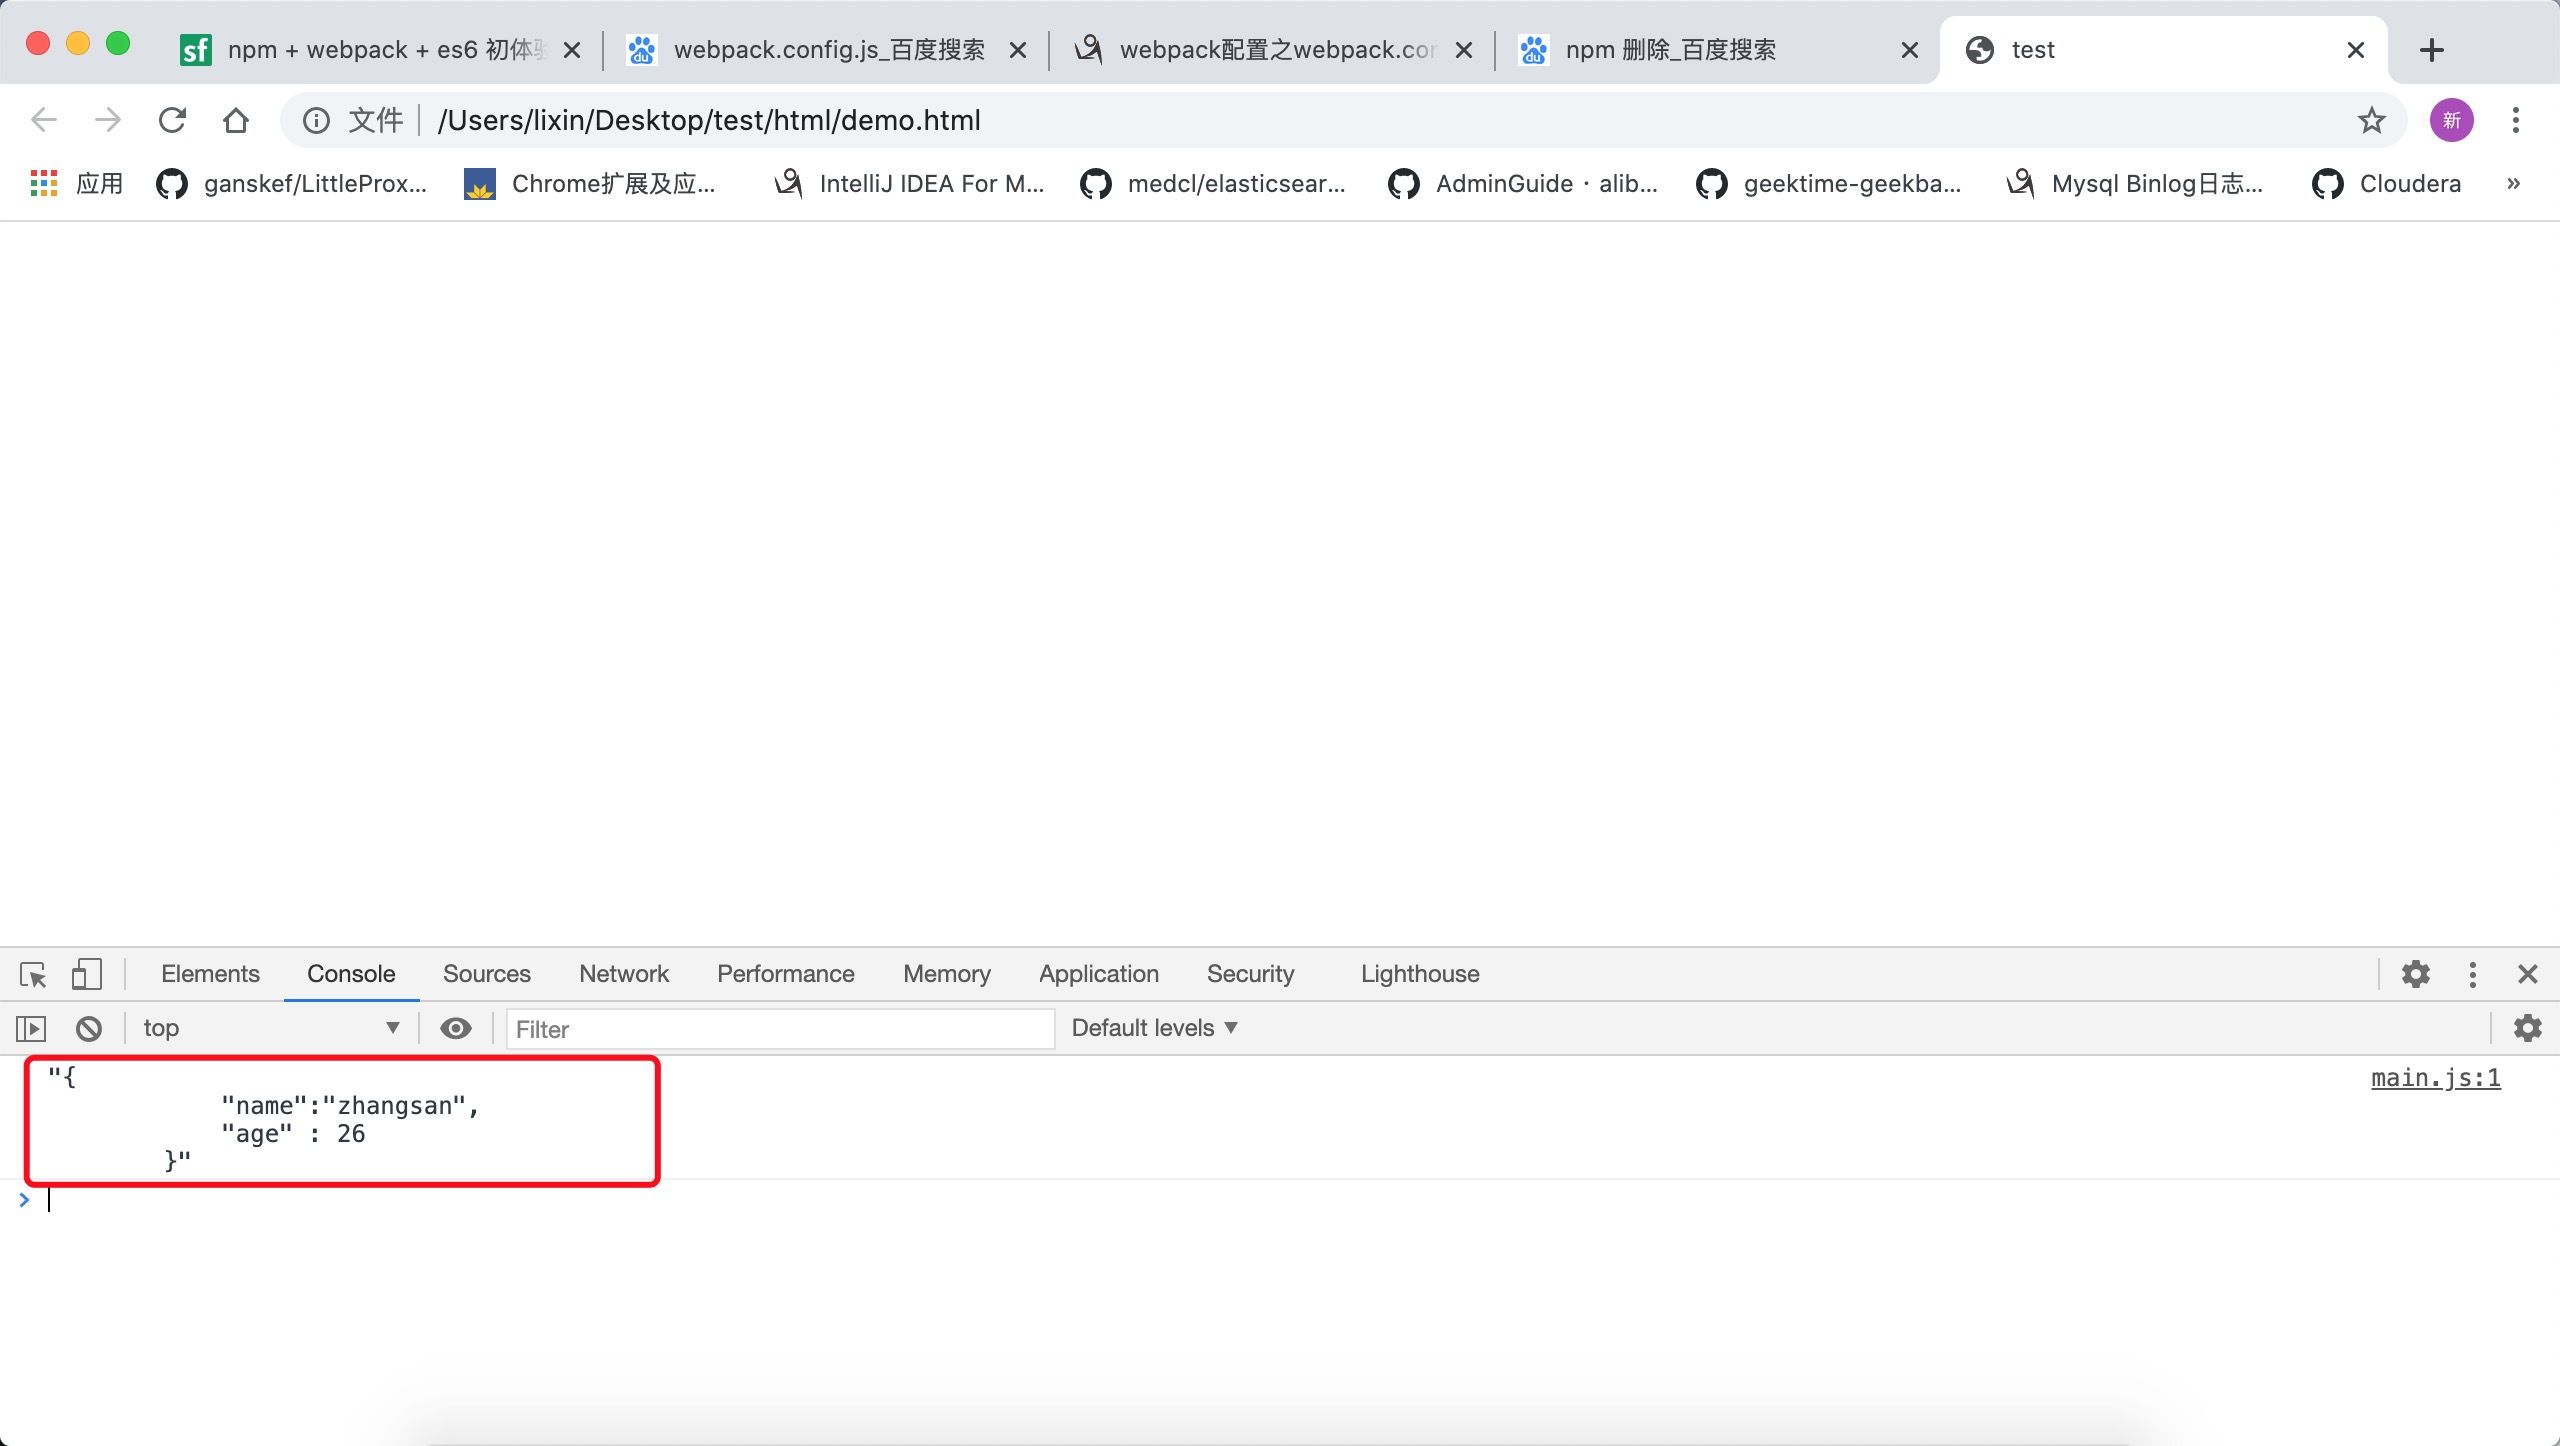
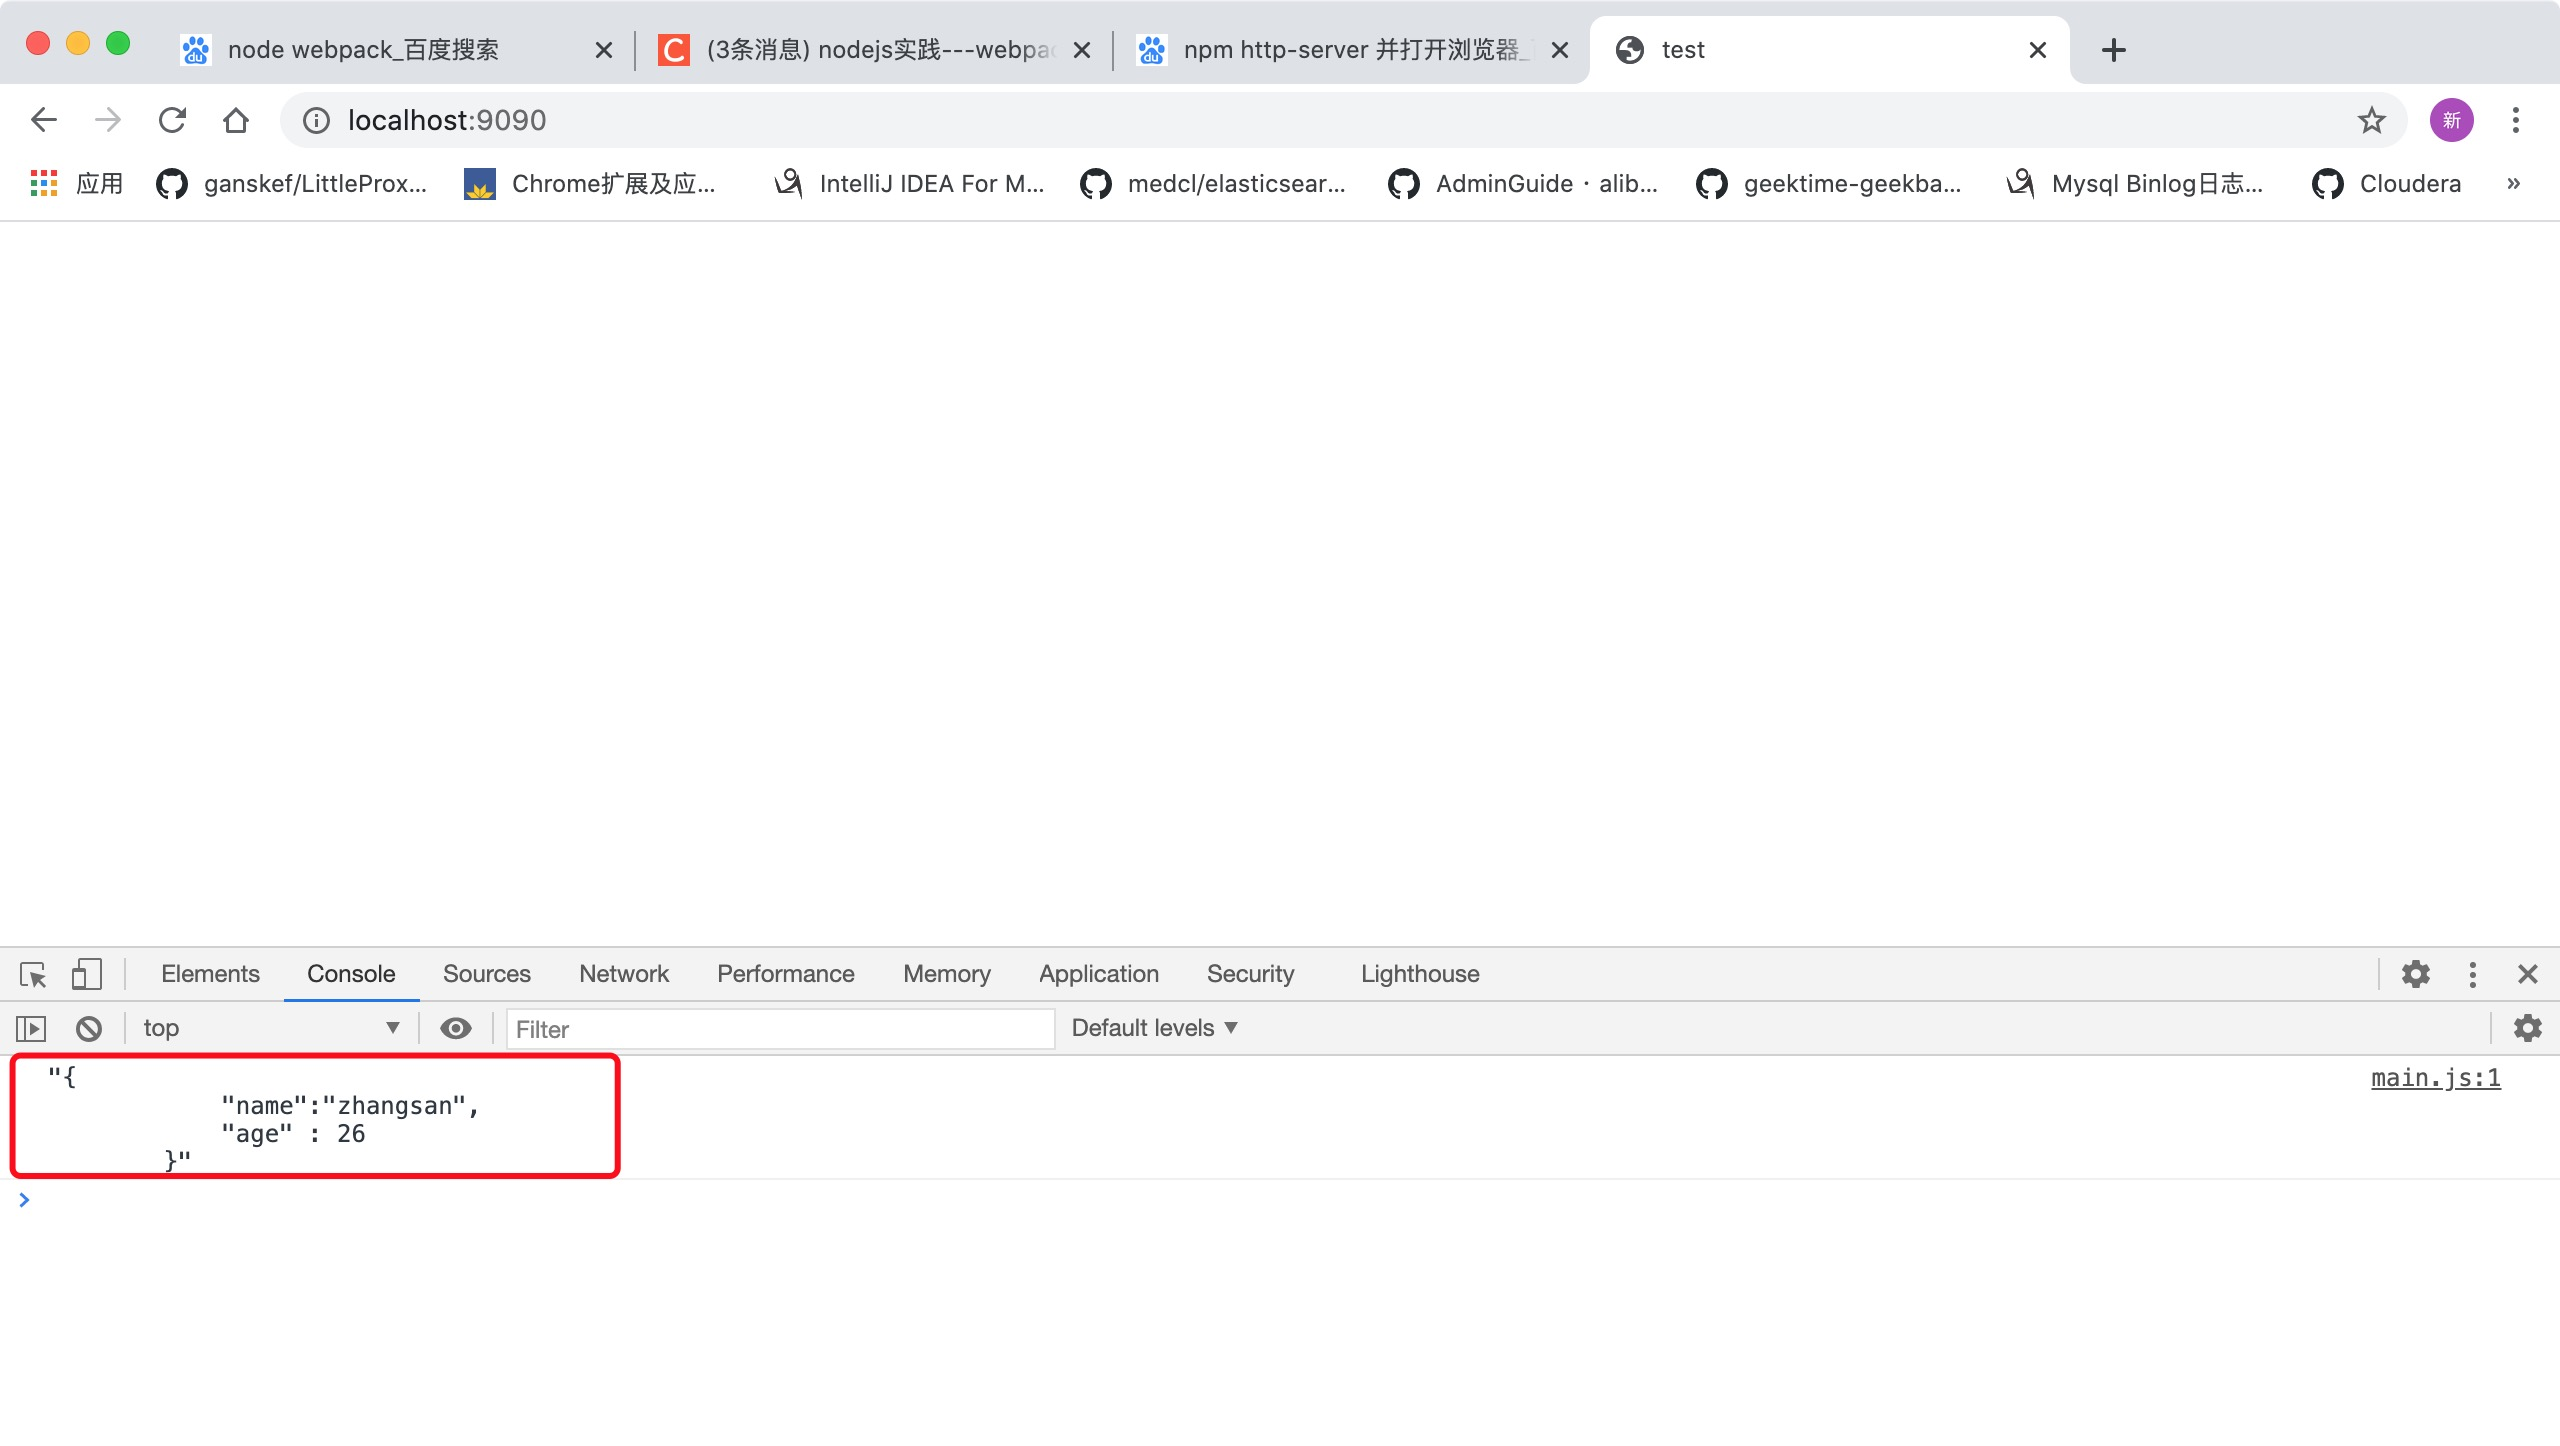
init blog

Changed region(s): [[0.0625, 0.0, 0.9375, 0.0934], [0.1562, 0.9959, 0.8438, 1.0], [0.0, 0.7158, 0.25, 0.8402]]

diff --git a/_posts/2020-04-10-EcmaScript6-WebPack.md b/_posts/2020-04-10-EcmaScript6-WebPack.md
@@ -46,25 +46,19 @@ lixin-macbook:test lixin$ npm init
 ```
 ### (4). 安装webpack和webpack-cli
 ```
-# 安装webpack和webpack-cli
+# 安装webpack和webpack-cli/http-server
 # 建议全局安装这两件插件(npm install webpack webpack-cli -g)  
 lixin-macbook:test lixin$ npm install webpack webpack-cli --save-dev
-
-# 查看项目结构
-lixin-macbook:test lixin$ tree -L 1
-.
-├── node_modules
-├── package-lock.json
-└── package.json
+lixin-macbook:test lixin$ npm install http-server --save-dev
 
 # 查看webpack版本
 lixin-macbook:test lixin$ ./node_modules/.bin/webpack -v
 webpack-cli 4.2.0
 webpack 5.11.0
 ```
-### (5). 创建项目目录(src/dist/html)
+### (5). 创建项目目录(src/dist)
 ```
-lixin-macbook:test lixin$ mkdir src dist html
+lixin-macbook:test lixin$ mkdir src dist
 ```
 ### (6). src用于存放JS文件
 > src/Person.js   
@@ -96,7 +90,7 @@ console.log(person.hello());
 ```
 
 ### (7). 编写html
-> html/demo.html 
+> dist/index.html 
 
 ```
 <!DOCTYPE html>
@@ -105,7 +99,7 @@ console.log(person.hello());
 		<meta charset="utf-8">
 		<title>test</title>
     <!-- 加载js文件 -- >
-		<script type="text/javascript" src="../dist/main.js"></script>
+		<script type="text/javascript" src="main.js"></script>
 	</head>
 	<body>
 	</body>
@@ -114,7 +108,7 @@ console.log(person.hello());
 ### (8). 配置webpack.config.js
 ```
 # 配置webpack.config.js
-lixin-macbook:test lixin$ echo "" >  webpack.config.js
+lixin-macbook:test lixin$ vi webpack.config.js
 module.exports = {
     entry:  __dirname + '/src/index.js', //打包文件入口
     output: {               //打包文件出口
@@ -140,7 +134,6 @@ webpack 5.11.0 compiled successfully in 209 ms
 lixin-macbook:test lixin$ tree -L 1
 .
 ├── dist
-├── html
 ├── node_modules
 ├── package-lock.json
 ├── package.json
@@ -156,18 +149,22 @@ lixin-macbook:test lixin$ tree -L 1
   "description": "",
   "main": "index.js",
   "scripts": {
-    "test": "echo \"Error: no test specified\" && exit 1"
+    "build": "webpack",
+    "start": "http-server -p 9090 ./dist"
   },
   "author": "",
   "license": "ISC",
   "devDependencies": {
-    "webpack": "^5.11.0",
-    "webpack-cli": "^4.2.0"
+    "http-server": "^0.12.3"
   }
 }
 ```
 
 ### (12). 访问
-> 通过Chrome直接打开文件(file:///Users/lixin/Desktop/test/html/demo.html)
+```
+# 通过npm run start运行一个:http-server监听某个目录.
+lixin-macbook:test lixin$ npm run start
+```
+
 !["ES6+WebPack打包"](/assets/js/imgs/es6-webpack.jpg)
 
